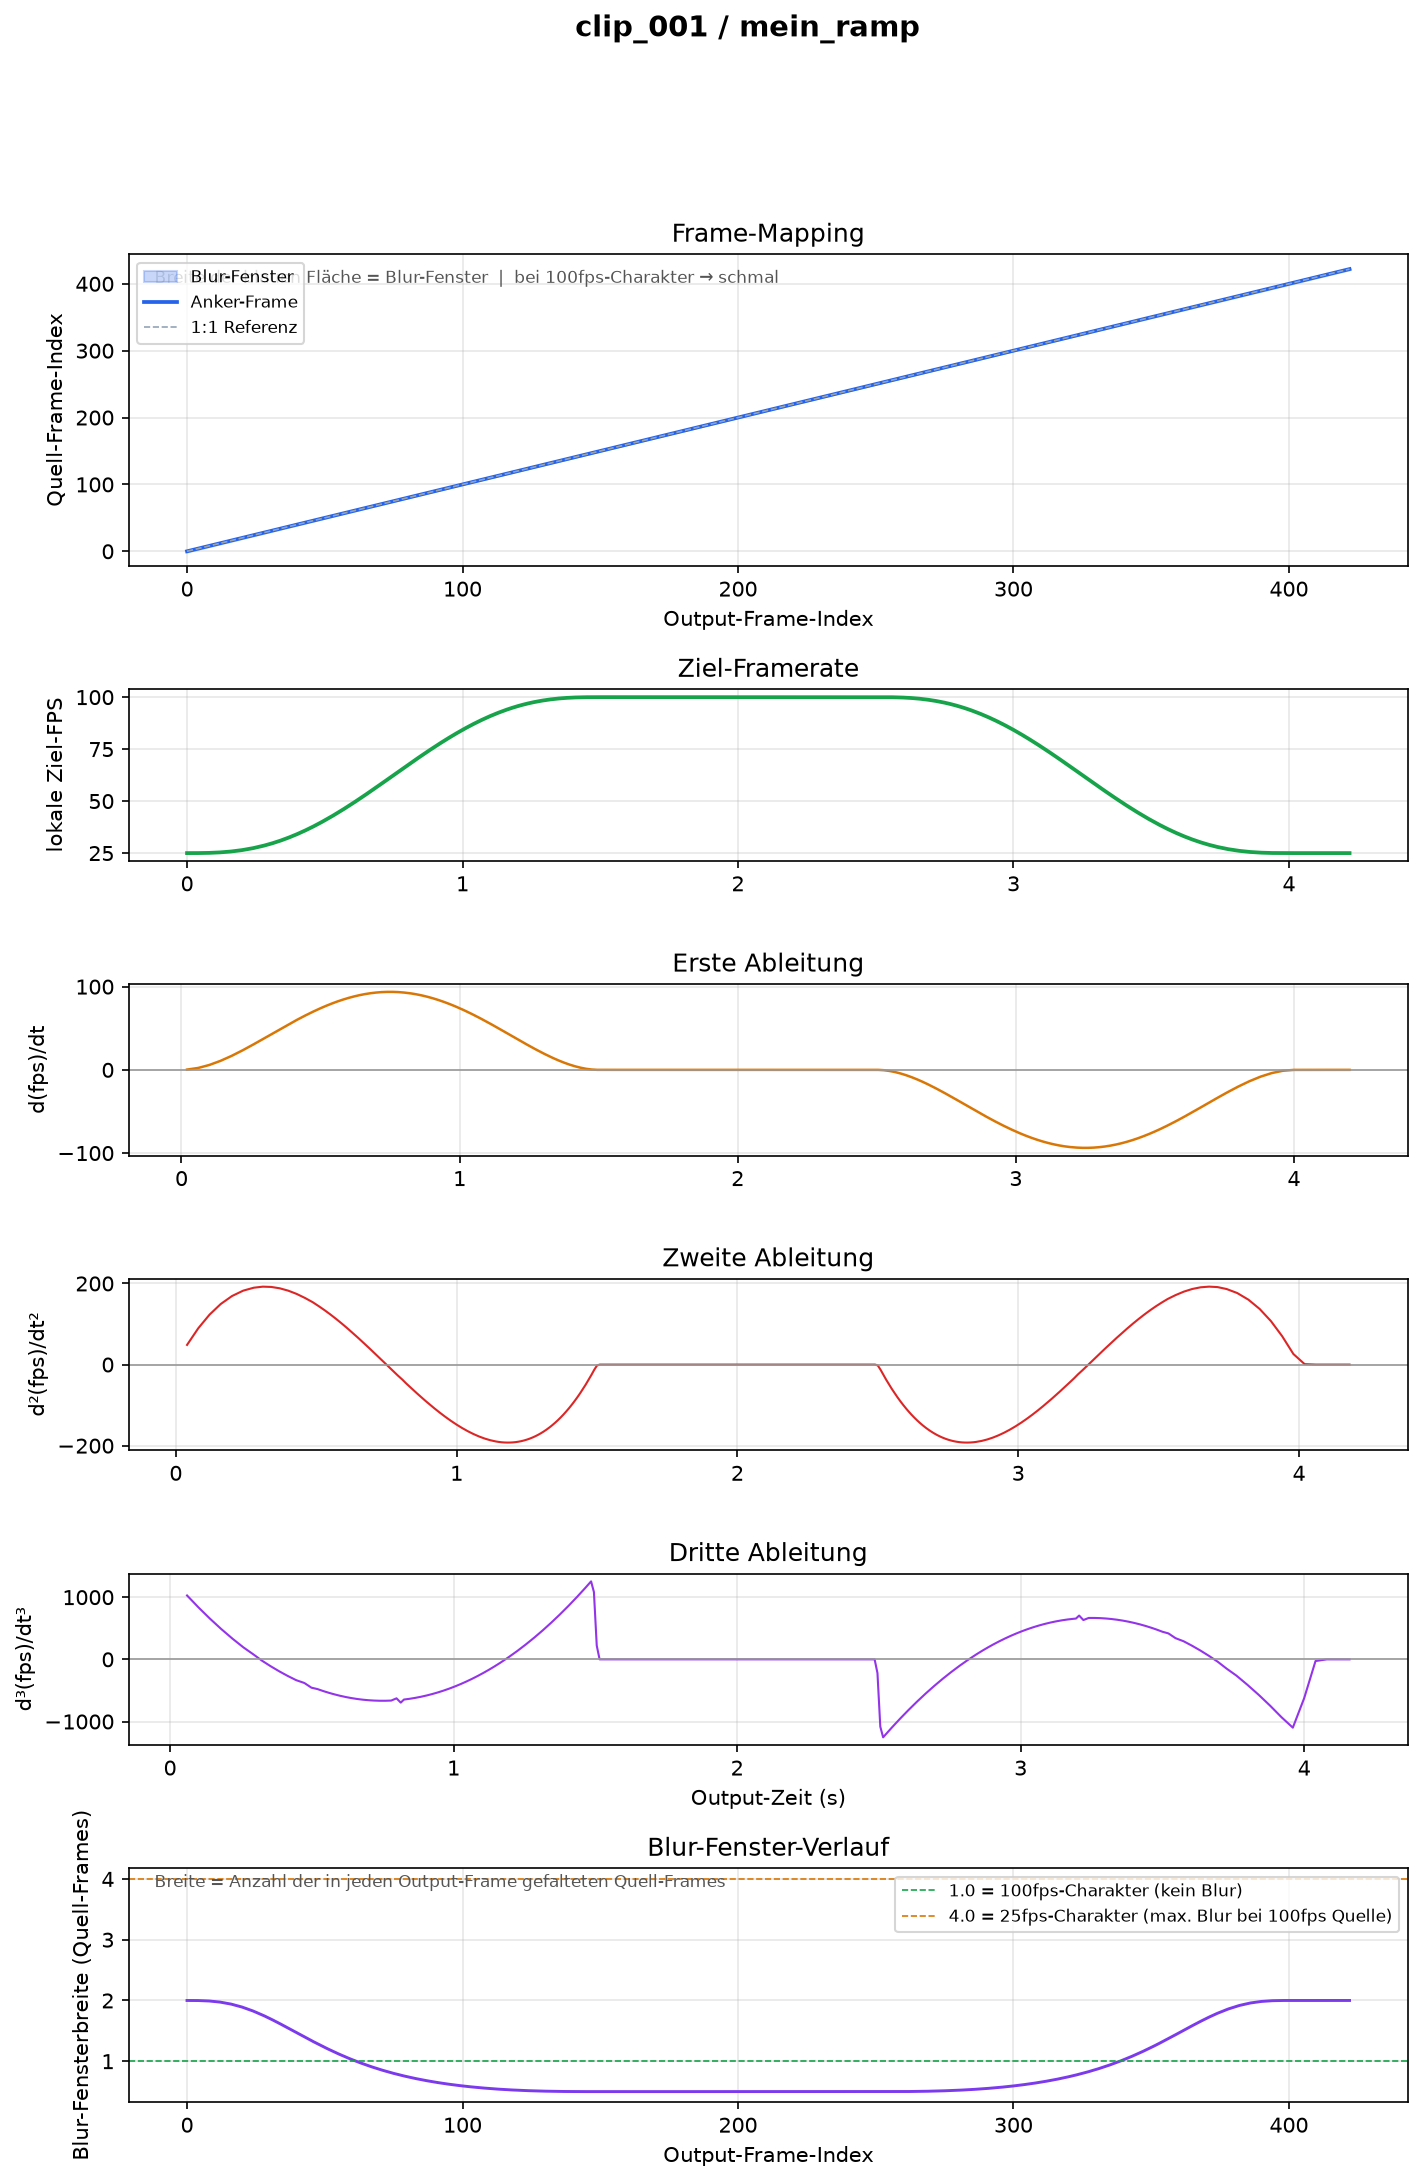
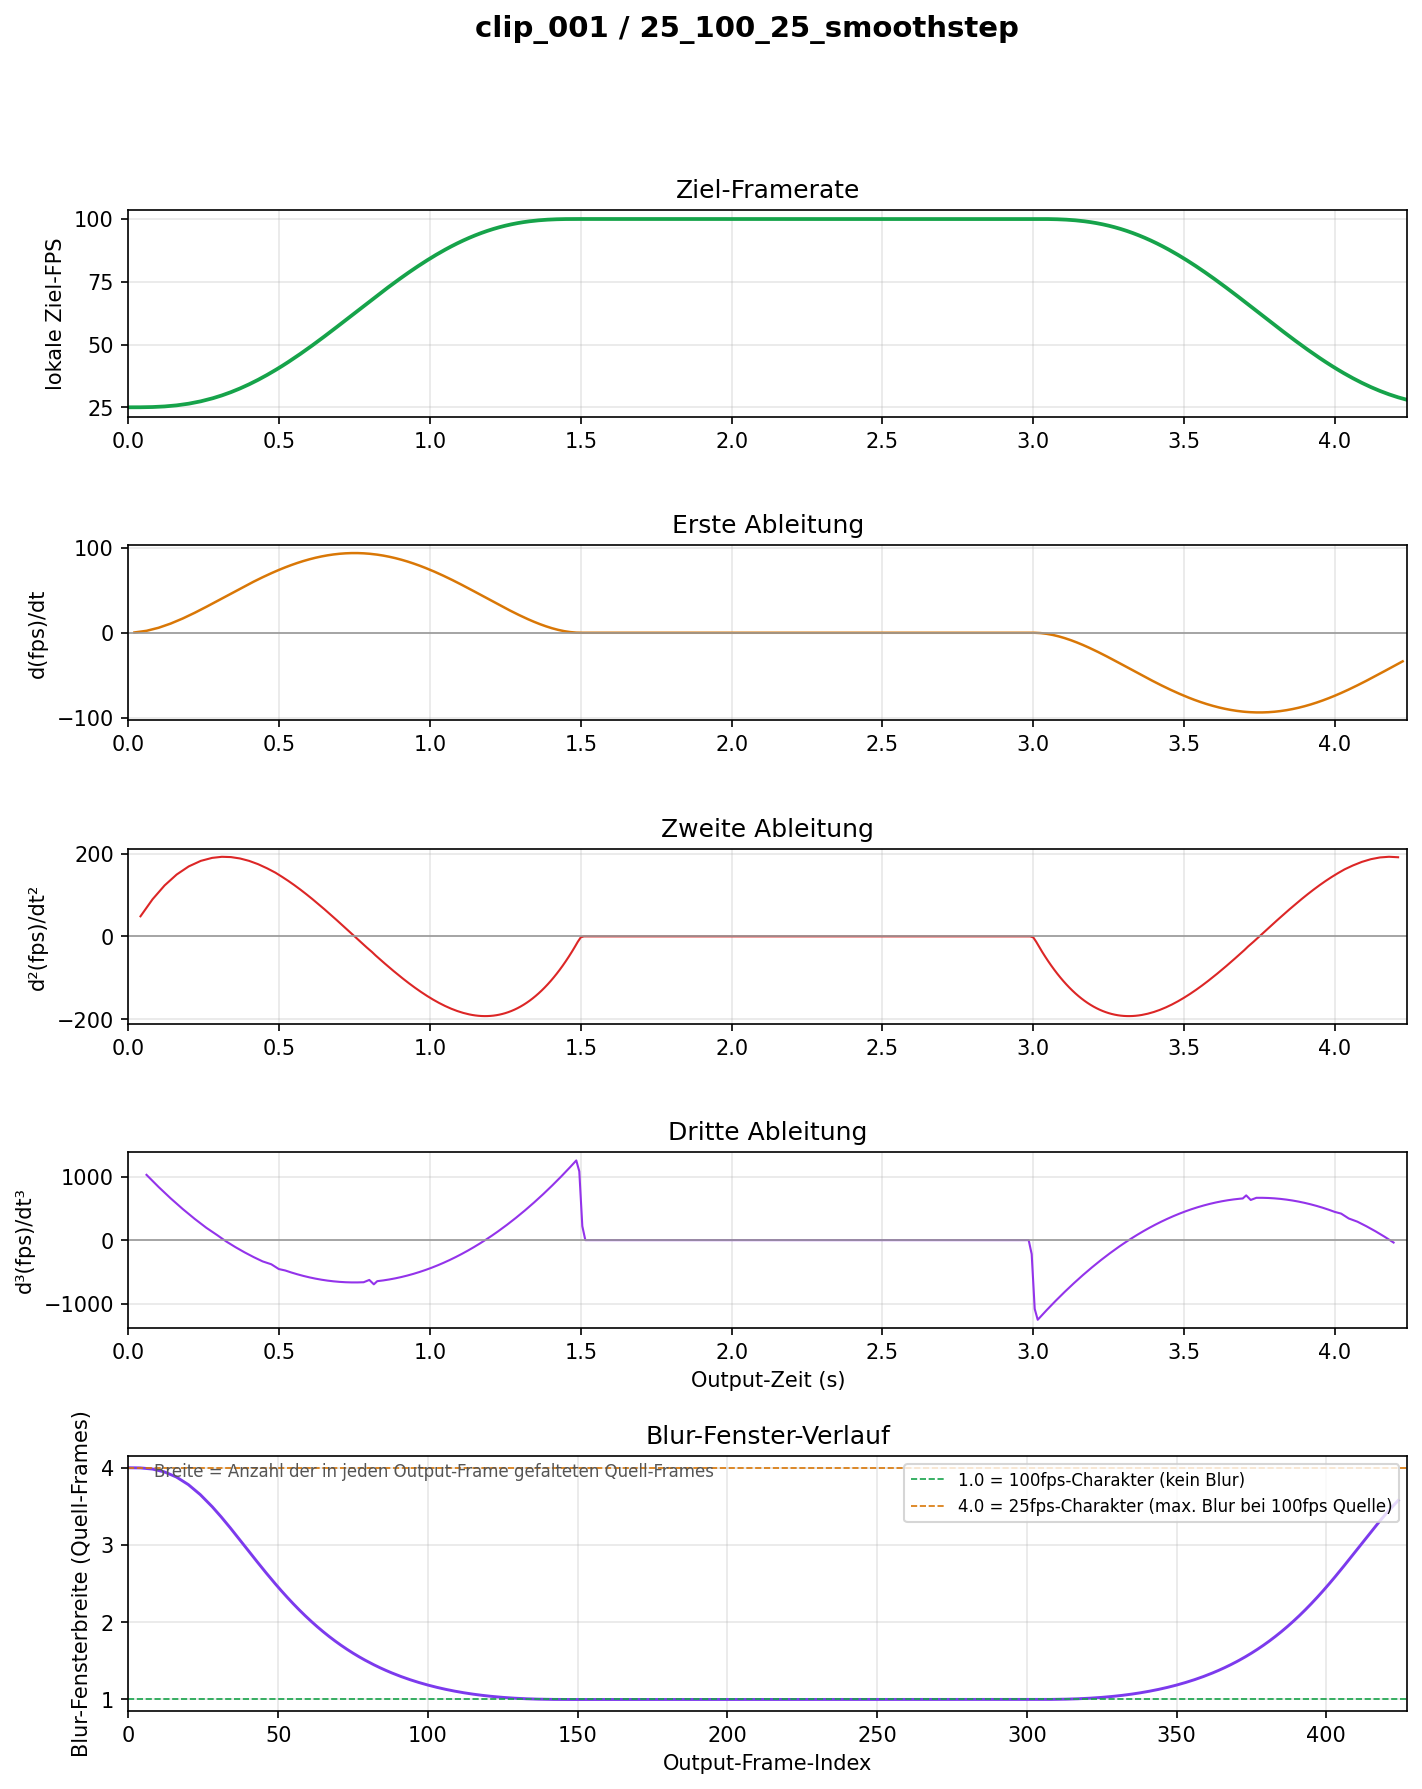
chore: clean up verification plot and readme

diff --git a/src/utils/ramp_plotting.py b/src/utils/ramp_plotting.py
@@ -89,6 +89,9 @@ def plot_effective_framerate(fig: plt.Figure, axes: list[plt.Axes], df: pd.DataF
     t   = work["output_time_sec"].values
     fps = work["local_target_fps"].values
 
+    # Voller Zeitbereich -- als gemeinsames xlim fuer alle Subplots
+    t_min, t_max = float(t[0]), float(t[-1])
+
     dt = np.diff(t)
     dt = np.where(dt == 0, 1e-9, dt)
     first_deriv = np.diff(fps) / dt
@@ -113,17 +116,20 @@ def plot_effective_framerate(fig: plt.Figure, axes: list[plt.Axes], df: pd.DataF
     ax_fps.plot(t, fps, color="#16a34a", linewidth=1.8)
     ax_fps.set_ylabel("lokale Ziel-FPS")
     ax_fps.set_title("Ziel-Framerate")
+    ax_fps.set_xlim(t_min, t_max)
     ax_fps.grid(True, alpha=0.3)
 
     ax_d1.plot(t_first, first_deriv, color="#d97706", linewidth=1.2)
     ax_d1.set_ylabel("d(fps)/dt")
     ax_d1.set_title("Erste Ableitung")
+    ax_d1.set_xlim(t_min, t_max)
     ax_d1.grid(True, alpha=0.3)
     ax_d1.axhline(0, color="#999999", linewidth=0.8)
 
     ax_d2.plot(t_second, second_deriv, color="#dc2626", linewidth=1.0)
     ax_d2.set_ylabel("d²(fps)/dt²")
     ax_d2.set_title("Zweite Ableitung")
+    ax_d2.set_xlim(t_min, t_max)
     ax_d2.grid(True, alpha=0.3)
     ax_d2.axhline(0, color="#999999", linewidth=0.8)
 
@@ -140,6 +146,7 @@ def plot_effective_framerate(fig: plt.Figure, axes: list[plt.Axes], df: pd.DataF
     ax_d3.set_ylabel("d³(fps)/dt³")
     ax_d3.set_xlabel("Output-Zeit (s)")
     ax_d3.set_title("Dritte Ableitung")
+    ax_d3.set_xlim(t_min, t_max)
     ax_d3.grid(True, alpha=0.3)
     ax_d3.axhline(0, color="#999999", linewidth=0.8)
 
@@ -166,6 +173,8 @@ def plot_timestep_sanity(ax: plt.Axes, df: pd.DataFrame) -> None:
         )
     else:
         anchors = _anchor_frames(df)
+        x_min = float(df["output_frame_idx"].min())
+        x_max = float(df["output_frame_idx"].max())
         ax.plot(anchors["output_frame_idx"], anchors["blur_window_frames"],
                 color="#7c3aed", linewidth=1.4)
         ax.axhline(1.0, color="#16a34a", linewidth=0.8, linestyle="--",
@@ -175,6 +184,7 @@ def plot_timestep_sanity(ax: plt.Axes, df: pd.DataFrame) -> None:
         ax.legend(loc="upper right", fontsize=8)
         ax.set_ylabel("Blur-Fensterbreite (Quell-Frames)")
         ax.set_title("Blur-Fenster-Verlauf")
+        ax.set_xlim(x_min, x_max)
         ax.annotate(
             "Breite = Anzahl der in jeden Output-Frame gefalteten Quell-Frames",
             xy=(0.02, 0.92), xycoords="axes fraction", fontsize=8, color="#555555",
@@ -185,14 +195,15 @@ def plot_timestep_sanity(ax: plt.Axes, df: pd.DataFrame) -> None:
 
 
 def build_full_verification_figure(df: pd.DataFrame, title: str = "Ramp-Verifikation") -> plt.Figure:
-    fig = plt.figure(figsize=(11, 16))
+    # Frame-Mapping-Panel auf Professorenfeedback entfernt.
+    # Neues Layout: 5 Panels (Ziel-FPS, d1, d2, d3, Blur-Fenster).
+    fig = plt.figure(figsize=(11, 13))
     fig.suptitle(title, fontsize=14, fontweight="bold")
-    gs = fig.add_gridspec(6, 1, height_ratios=[2, 1.1, 1.1, 1.1, 1.1, 1.5], hspace=0.6)
+    gs = fig.add_gridspec(5, 1, height_ratios=[1.3, 1.1, 1.1, 1.1, 1.6], hspace=0.65)
 
-    plot_frame_mapping(fig.add_subplot(gs[0]), df)
     plot_effective_framerate(fig,
-        [fig.add_subplot(gs[i]) for i in range(1, 5)], df)
-    plot_timestep_sanity(fig.add_subplot(gs[5]), df)
+        [fig.add_subplot(gs[i]) for i in range(0, 4)], df)
+    plot_timestep_sanity(fig.add_subplot(gs[4]), df)
     return fig
 
 

diff --git a/README.md b/README.md
@@ -1,6 +1,6 @@
 # framerate-ramp-pipeline
 
-Eine Python-Pipeline für **Motion Grading** von 100fps-Filmmaterial: stufenlose Steuerung des Shutter-Charakters bei konstanter Zeitachse.
+Eine Python-Pipeline für **stufenlose Framerate-Rampen** von 100fps-Filmmaterial
 
 HDM Stuttgart — Masterprojekt Cinematography Simon Hans · Betreuer: Jan Fröhlich, Stefan Grandinetti
 
@@ -8,28 +8,17 @@ HDM Stuttgart — Masterprojekt Cinematography Simon Hans · Betreuer: Jan Fröh
 
 ## Transparenzhinweis
 
-Dieses Projekt wurde im Rahmen meines Masterprojekts an der HdM Stuttgart entwickelt. Für die Implementierung der Pipeline — d.h. die Generierung und das iterative Debugging des Python-Codes — habe ich intensiv mit dem Large Language Model Claude (Anthropic, Modell: Claude Sonnet 4.6) zusammengearbeitet. Sämtliche konzeptionellen Entscheidungen (Problemdefinition, Wahl der mathematischen Interpolationsmethode, visuelle Verifikationsstrategie usw.) wurden eigenständig entwickelt und im Dialog mit dem Modell umgesetzt. Der Code wurde in jeder Iteration inhaltlich geprüft und bei Fehlern gezielt korrigiert.
+Dieses Repository ist im Rahmen meines Masterprojekts entstanden. Bei der praktischen Umsetzung – also beim Schreiben, Refaktorieren und Debuggen des Python-Codes – habe ich Claude als Coding-Assistenten genutzt. Das konzeptionelle Fundament, die mathematische Logik und die Lösungsansätze stammen von mir und wurden im iterativen Prozess gemeinsam mit der KI in lauffähigen Code übersetzt.
 
-Dieses Repository dokumentiert einen funktionierenden **Proof-of-Concept** an einem Testclip (~4 Sekunden, 100fps).
+Aktueller Stand: Dieses Repository dokumentiert einen funktionierenden Proof-of-Concept (getestet an nativem 100fps-Material).
 
 ---
 
-## Was dieses Tool tut — und was nicht
+## Kernkonzept
 
-### Speedramping vs. Motion Grading
+Im Gegensatz zum klassischen Speedramping, bei dem sich die Abspielgeschwindigkeit und Clip-Länge ändern, hält diese Pipeline die Zeitachse konstant (1:1). Jeder Output-Frame entspricht exakt dem Zeitpunkt der Originalaufnahme. Die Pipeline rampt ausschließlich den visuellen Charakter (die Abspielkadenz und die Bewegungsunschärfe).
 
-Beim **Speedramping** steuert die Framerate-Kurve gleichzeitig zwei Dinge: die Wiedergabegeschwindigkeit *und* die Anzahl der Quell-Frames, die auf einen Output-Frame abgebildet werden. Ein Ramp von 100fps auf 25fps bedeutet dort, dass die Quellzeit viermal langsamer abläuft. Der Clip dehnt sich auf das Vierfache seiner Dauer.
-
-Beim **Motion Grading** (diese Pipeline) werden beide Aspekte getrennt. Die Zeitachse bleibt konstant bei 1×. Jeder Output-Frame entspricht exakt demselben Zeitpunkt im Quellmaterial. Was sich ändert, ist ausschließlich der Shutter-Charakter: Wie viele Quell-Frames werden zu einem Composite gefaltet, und wie oft wird dieses Bild im 100fps-Container wiederholt?
-
-| | Speedramping | Motion Grading (diese Pipeline) |
-|---|---|---|
-| Zeitachse | gedehnt / gestaucht | konstant 1× |
-| Output-Länge | ändert sich | identisch zum Original |
-| Container-FPS | niedriger (z.B. 25fps) | identisch zur Quelle (100fps) |
-| Effekt | Bewegung langsamer / schneller | Shutter-Charakter ändert sich |
-
-### Die Formel dahinter
+Die zugrunde liegende Mathematik trennt dabei  die Wiedergabe-Kadenz (hold_count) von der Belichtungszeit (blur_window), welche über den Shutter-Winkel gesteuert wird.
 
 Sei `f_target` die lokale Ziel-Framerate, `f_source` die Quell-Framerate (100fps) und `shutter_angle` der gewünschte simulierte Shutter-Winkel in Grad:
 
@@ -52,7 +41,7 @@ hold_count   = round(f_source / f_target)   ← kein Shutter-Faktor hier
 
 - Python 3.10+
 - FFmpeg (systemweit, im PATH)
-- NVIDIA-GPU mit CUDA (empfohlen)
+- NVIDIA-GPU mit CUDA (empfohlen, CPU-Fallback möglich)
 - Practical-RIFE Modell ≥ v4.25
 
 ### Schritt für Schritt
@@ -177,10 +166,7 @@ Vor jedem Render erzeugt die Pipeline automatisch `verification_plot.png` unter 
 
 ![Verifikationsplot](docs/verification_plot.png)
 
-Der Plot besteht aus sechs Panels:
-
-**Frame-Mapping-Kurve**
-Die blaue Linie verläuft exakt auf der grauen 1:1-Diagonalen. Bild 200 im Output entspricht exakt Bild 200 aus dem Quellmaterial. Weicht die Linie systematisch ab, liegt ungewolltes Speedramping vor. Die blaue Füllfläche zeigt die Blur-Fensterbreite: breit in 25fps-Bereichen (mehrere Frames werden gefaltet), schmal in 100fps-Bereichen.
+Der Plot besteht aus fünf Panels:
 
 **Ziel-Framerate**
 Die Ramp-Kurve selbst. Sollte S-förmig zwischen 25fps und 100fps verlaufen und an den Übergangspunkten sanft einsetzen 
@@ -262,10 +248,11 @@ Hoydems Arbeit zu lokal variierenden Frameraten (2021) zeigt ergänzend, dass wa
 
 ## Literatur
 
-- Hoydem, Jan: *Locally Varying Frame Rates for Judder Reduction in High-Dynamic-Range Content* (2021)
-- Oberhauser, Leonard: *Implementierung und Evaluation interpolierter Frame Rate Ramps in Abhängigkeit von Kamera- und Objektbewegung im szenischen Film* (2025)
-- Huang, Z. et al.: *Real-Time Intermediate Flow Estimation for Video Frame Interpolation*, ECCV 2022
+- Hoydem, J. (2020): Locally Varying Frame Rates for Judder Reduction in High-Dynamic-Range Content.
+- Oberhauser, L. (2025): Implementierung und Evaluation interpolierter Frame Rate Ramps in Abhängigkeit von Kamera- und Objektbewegung im szenischen Film.
+- Huang, Z. et al. (2022): Real-Time Intermediate Flow Estimation for Video Frame Interpolation. (ECCV).
+- Perlin, K. (2002). Improving Noise. ACM Transactions on Graphics (TOG), 21(3), 681–682. Abrufbar hier: https://mrl.cs.nyu.edu/~perlin/paper445.pdf
 
 ---
 
-*Letzter Stand: 10.07.2026*
+*Letzter Stand: 21.07.2026*
